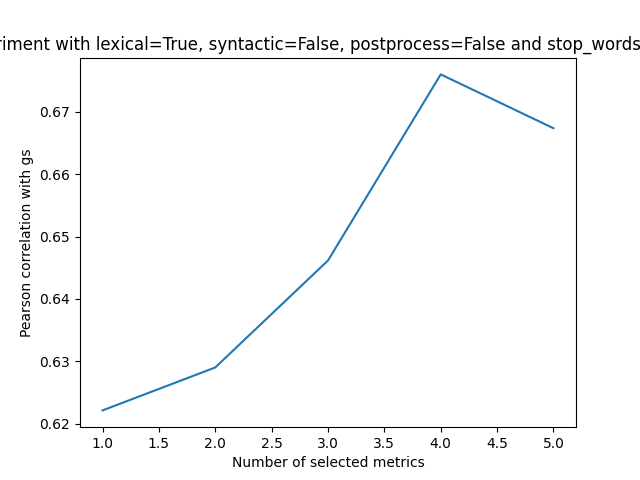
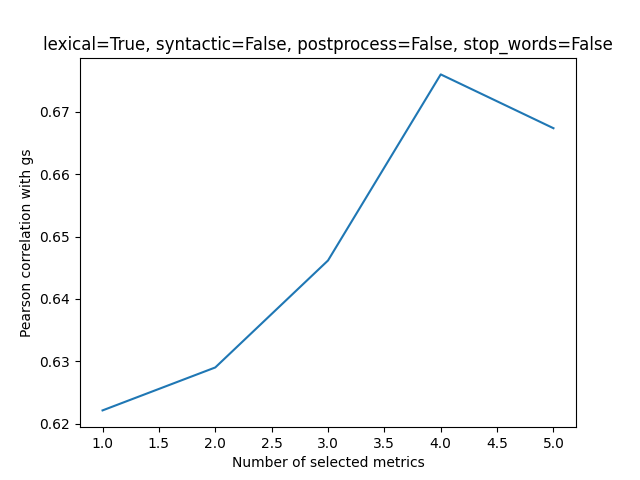
Last code

Changed region(s): [[0.0, 0.0625, 1.0, 0.125]]

diff --git a/project.py b/project.py
@@ -24,7 +24,7 @@ def printTopMetrics(correlations):
 def jacc_sim(list1, list2):
     return 1-jaccard_distance(set(list1), set(list2)) # 1-distance
 
-def sort_metrics(dt_train, metrics):
+def sort_metrics(title, dt_train, metrics):
     metrics = preprocess_metrics(metrics)
 
     correlations = {}
@@ -32,6 +32,12 @@ def sort_metrics(dt_train, metrics):
         correlations[metric] = pearsonr(dt_train['gs'], metrics[metric])[0]
     sorted_c = dict(sorted(correlations.items(), key=operator.itemgetter(1), reverse=True))
     printTopMetrics(sorted_c)
+
+    fig = plt.figure()
+    plt.title(title)
+    plt.ylabel('Individual Pearson correlation with gs')
+    plt.bar(correlations.keys(), correlations.values())
+    fig.savefig(title +'.png')
 
     return sorted_c
 
@@ -90,9 +96,7 @@ def final_experiment():
     model = training_regression(dt_train, X_train)
     test_regression(model, dt_test, X_test_final)
 
-def main_experiment(lexical=False, syntactic=False, postprocess=False, distance='jaccard', stop_words=False):
-    file_object = open(FILE, 'w+')
-
+def main_experiment(file_object, lexical=False, syntactic=False, postprocess=False, distance='jaccard', stop_words=False):
     experiment = f'\nExperiment with lexical={lexical}, syntactic={syntactic}, postprocess={postprocess} and stop_words={stop_words}.'
     print(experiment)
     file_object.write(experiment + '\n')
@@ -100,7 +104,8 @@ def main_experiment(lexical=False, syntactic=False, postprocess=False, distance=
     metrics_train = m.get_metrics(dt_train, lexical=lexical, syntactic=syntactic, distance=distance, stop_words=stop_words)
     metrics_test = m.get_metrics(dt_test, lexical=lexical, syntactic=syntactic, distance=distance, stop_words=stop_words)
 
-    sort_metrics(dt_train, metrics_train)
+    sort_metrics(f'lexical={lexical}, syntactic={syntactic}, postprocess={postprocess}, stop_words={stop_words}', 
+        dt_train, metrics_train)
     metrics_train = preprocess_metrics(metrics_train)
     X = DataFrame.from_dict(metrics_train)
     Y = dt_train['gs']
@@ -127,6 +132,11 @@ def main_experiment(lexical=False, syntactic=False, postprocess=False, distance=
         result = f'\tChosen metrics: {X_train.shape[1]}, Pearson correlation: {p_correlation}'
         print(result)
         file_object.write(result + '\n')
+        final_metrics = ''
+        for idx, metric in enumerate(chosen_metrics[i-1]):
+            if metric:
+                final_metrics = final_metrics + list(metrics_train.keys())[idx] + ', '
+        file_object.write(final_metrics + '\n')
 
     # All metrics
     model = training_regression(dt_train, X)
@@ -136,6 +146,11 @@ def main_experiment(lexical=False, syntactic=False, postprocess=False, distance=
     result = f'\tChosen metrics: {X.shape[1]}, Pearson correlation: {p_correlation}'
     print(result)
     file_object.write(result + '\n')
+    final_metrics = ''
+    for idx, metric in enumerate(chosen_metrics[i]):
+        if metric:
+            final_metrics = final_metrics + list(metrics_train.keys())[idx] + ', '
+    file_object.write(final_metrics + '\n')
 
     max_index = results.index(max(results))
     final_result = f'\nBEST SETUP: {max_index+1} metrics, Correlation={results[max_index]}'
@@ -149,42 +164,35 @@ def main_experiment(lexical=False, syntactic=False, postprocess=False, distance=
     file_object.write(final_metrics + '\n')
 
     fig = plt.figure()
-    plt.title('lexical={lexical}, syntactic={syntactic}, postprocess={postprocess}, stop_words={stop_words}')
+    plt.title(f'lexical={lexical}, syntactic={syntactic}, postprocess={postprocess}, stop_words={stop_words}')
     plt.xlabel('Number of selected metrics')
     plt.ylabel('Pearson correlation with gs')
     plt.plot(range(1,len(results)+1), results)
     fig.savefig(f'plots/lexical={lexical}_syntactic={syntactic}_postprocess={postprocess}_stop_words={stop_words}.png')
 
-    file_object.close()
-
 if __name__ == '__main__':
     if os.path.exists(FILE):
         os.remove(FILE)
 
+    file_object = open(FILE, 'w+')
+
     #final_experiment()
-    main_experiment(lexical=True, syntactic=False, postprocess=False, distance='jaccard', stop_words=False)
-    main_experiment(lexical=True, syntactic=False, postprocess=True, distance='jaccard', stop_words=False)
-    #main_experiment(lexical=True, syntactic=False, postprocess=False, distance='jaro',stop_words=False)
-    #main_experiment(lexical=True, syntactic=False, postprocess=True, distance='jaro', stop_words=False)
-    main_experiment(lexical=True, syntactic=False, postprocess=False, distance='jaccard', stop_words=True)
-    main_experiment(lexical=True, syntactic=False, postprocess=True, distance='jaccard', stop_words=True)
-    #main_experiment(lexical=True, syntactic=False, postprocess=False, distance='jaro',stop_words=True)
-    #main_experiment(lexical=True, syntactic=False, postprocess=True, distance='jaro', stop_words=True)
+    main_experiment(file_object, lexical=True, syntactic=False, postprocess=False, distance='jaccard', stop_words=False)
+    file_object.close()
 
-    main_experiment(lexical=False, syntactic=True, postprocess=False, distance='jaccard', stop_words=False)
-    main_experiment(lexical=False, syntactic=True, postprocess=True, distance='jaccard', stop_words=False)
-    #main_experiment(lexical=False, syntactic=True, postprocess=False, distance='jaro',stop_words=False)
-    #main_experiment(lexical=False, syntactic=True, postprocess=True, distance='jaro', stop_words=False)
-    main_experiment(lexical=False, syntactic=True, postprocess=False, distance='jaccard', stop_words=True)
-    main_experiment(lexical=False, syntactic=True, postprocess=True, distance='jaccard', stop_words=True)
-    #main_experiment(lexical=False, syntactic=True, postprocess=False, distance='jaro',stop_words=True)
-    #main_experiment(lexical=False, syntactic=True, postprocess=True, distance='jaro', stop_words=True)
+    exit()
+    main_experiment(file_object, lexical=True, syntactic=False, postprocess=True, distance='jaccard', stop_words=False)
+    main_experiment(file_object, lexical=True, syntactic=False, postprocess=False, distance='jaccard', stop_words=True)
+    main_experiment(file_object, lexical=True, syntactic=False, postprocess=True, distance='jaccard', stop_words=True)
 
-    main_experiment(lexical=False, syntactic=False, postprocess=False, distance='jaccard', stop_words=False)
-    main_experiment(lexical=False, syntactic=False, postprocess=True, distance='jaccard', stop_words=False)
-    #main_experiment(lexical=False, syntactic=False, postprocess=False, distance='jaro',stop_words=False)
-    #main_experiment(lexical=False, syntactic=False, postprocess=True, distance='jaro', stop_words=False)
-    main_experiment(lexical=False, syntactic=False, postprocess=False, distance='jaccard', stop_words=True)
-    main_experiment(lexical=False, syntactic=False, postprocess=True, distance='jaccard', stop_words=True)
-    #main_experiment(lexical=False, syntactic=False, postprocess=False, distance='jaro',stop_words=True)
-    #main_experiment(lexical=False, syntactic=False, postprocess=True, distance='jaro', stop_words=True)
+    main_experiment(file_object, lexical=False, syntactic=True, postprocess=False, distance='jaccard', stop_words=False)
+    main_experiment(file_object, lexical=False, syntactic=True, postprocess=True, distance='jaccard', stop_words=False)
+    main_experiment(file_object, lexical=False, syntactic=True, postprocess=False, distance='jaccard', stop_words=True)
+    main_experiment(file_object, lexical=False, syntactic=True, postprocess=True, distance='jaccard', stop_words=True)
+    
+    main_experiment(file_object, lexical=False, syntactic=False, postprocess=False, distance='jaccard', stop_words=False)
+    main_experiment(file_object, lexical=False, syntactic=False, postprocess=True, distance='jaccard', stop_words=False)
+    main_experiment(file_object, lexical=False, syntactic=False, postprocess=False, distance='jaccard', stop_words=True)
+    main_experiment(file_object, lexical=False, syntactic=False, postprocess=True, distance='jaccard', stop_words=True)
+    
+    
